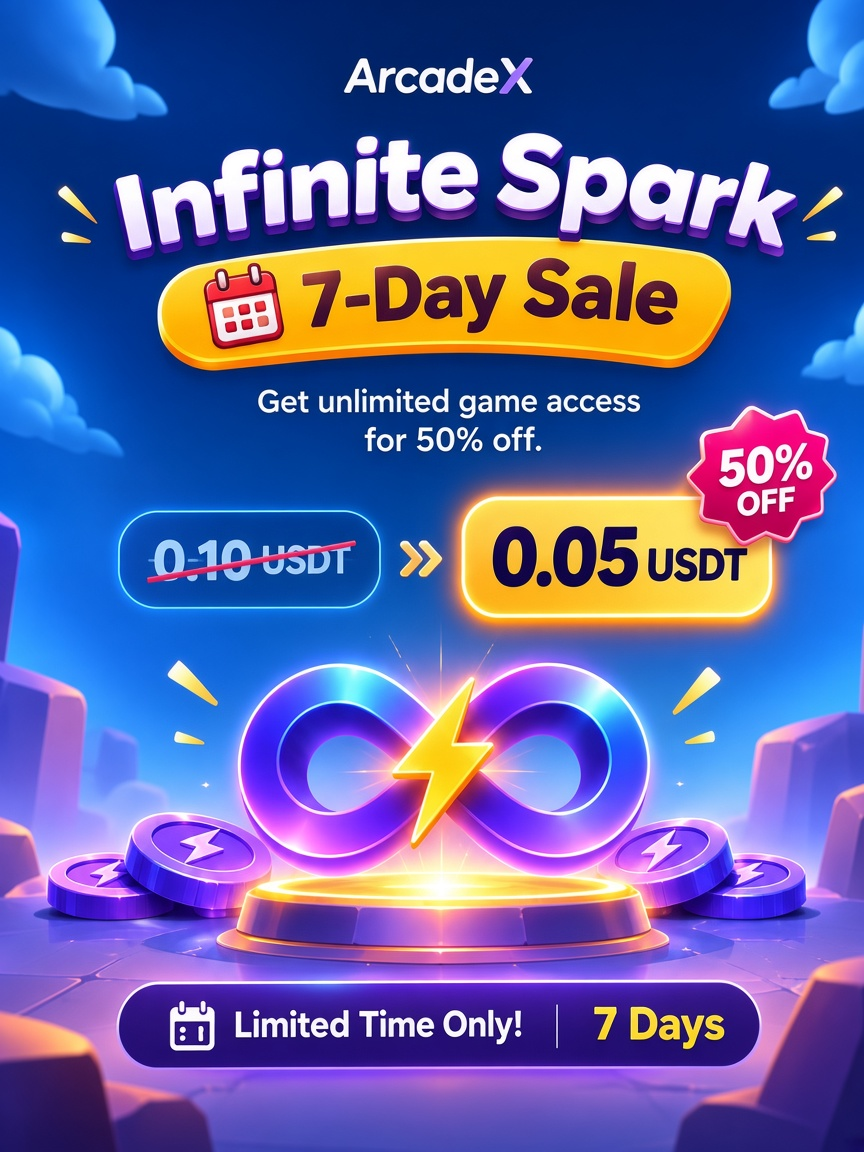
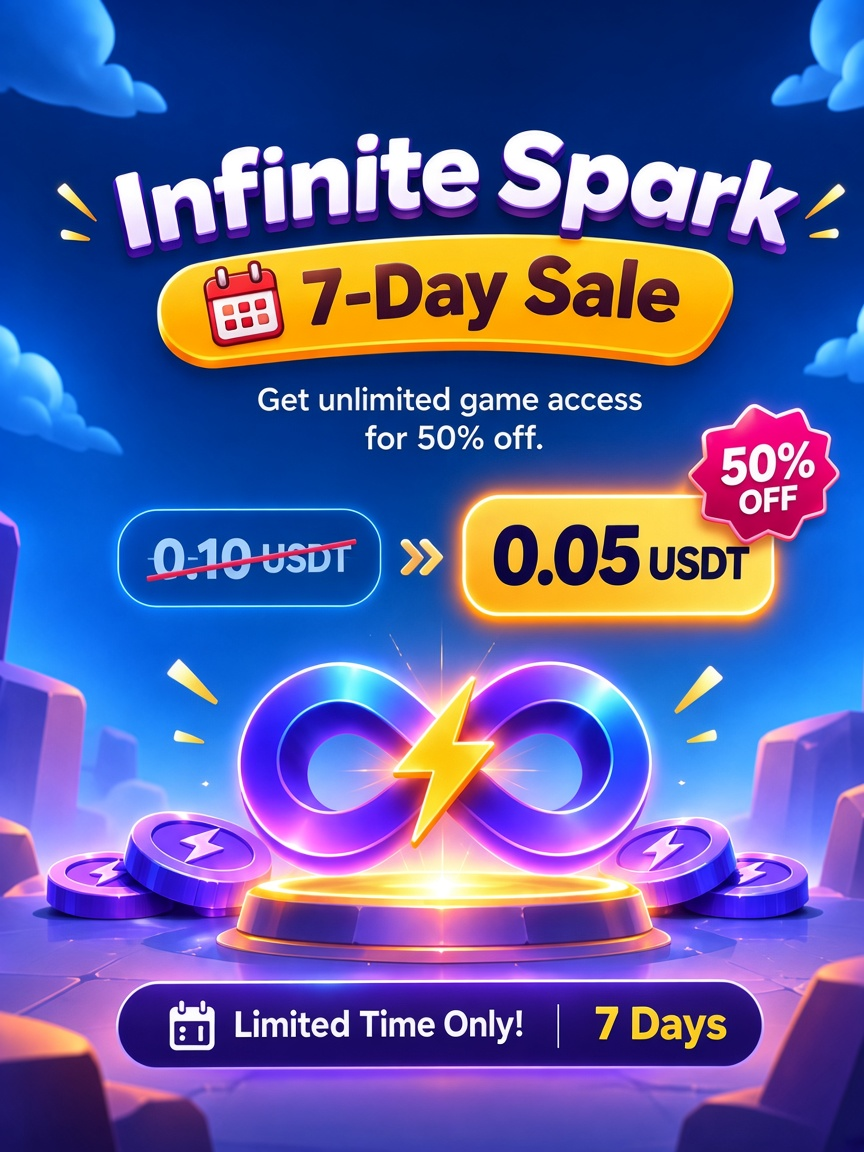
changes

diff --git a/components/SparkBatteryBar.tsx b/components/SparkBatteryBar.tsx
@@ -245,6 +245,72 @@ export default function SparkBatteryBar() {
             <span aria-hidden>✦</span>
           </h3>
 
+          <div
+            className={`spark-shop-card spark-shop-card--infinite${
+              saleLive ? " spark-shop-card--sale" : ""
+            }`}
+          >
+            {saleLive ? (
+              <span className="spark-shop-card__burst" aria-label="50% off">
+                50% OFF
+              </span>
+            ) : null}
+            <div className="spark-shop-card__main">
+              <span className="spark-shop-card__icon spark-shop-card__icon--infinite" aria-hidden>
+                ∞
+              </span>
+              <div className="spark-shop-card__copy">
+                <p className="spark-shop-card__name">Infinite Spark (24h)</p>
+                <p className="spark-shop-card__desc">
+                  {saleLive
+                    ? "Unlimited game access — half off for 7 days."
+                    : "Unlimited game access for 24 hours."}
+                </p>
+                {saleLive ? (
+                  <p className="spark-shop-card__sale-line">7-day sale</p>
+                ) : null}
+              </div>
+              <div className="spark-shop-card__price-wrap">
+                {saleLive ? (
+                  <span className="spark-shop-card__was">
+                    ${formatInfiniteSparkUsdt(INFINITE_SPARK_NORMAL_USDT)}
+                  </span>
+                ) : null}
+                <button
+                  type="button"
+                  className="spark-shop-card__price"
+                  disabled={purchasing || loading || !walletAddress}
+                  onClick={() => {
+                    playTouchSfx();
+                    void handlePurchaseInfiniteSpark();
+                  }}
+                >
+                  {purchasing
+                    ? "…"
+                    : `$${formatInfiniteSparkUsdt(
+                        saleLive
+                          ? INFINITE_SPARK_SALE_USDT
+                          : INFINITE_SPARK_NORMAL_USDT
+                      )}`}
+                </button>
+              </div>
+            </div>
+            <span
+              className={`spark-shop-card__tag${
+                saleLive
+                  ? " spark-shop-card__tag--sale"
+                  : " spark-shop-card__tag--purple"
+              }`}
+            >
+              {saleLive ? "Best deal right now" : "Play without limits"}
+            </span>
+            {purchaseError && (
+              <p className="spark-panel__purchase-error" role="alert">
+                {purchaseError}
+              </p>
+            )}
+          </div>
+
           <div className="spark-shop-card">
             <div className="spark-shop-card__main">
               <span className="spark-shop-card__icon spark-shop-card__icon--refill" aria-hidden>
@@ -274,65 +340,6 @@ export default function SparkBatteryBar() {
             {refillError && (
               <p className="spark-panel__purchase-error" role="alert">
                 {refillError}
-              </p>
-            )}
-          </div>
-
-          <div
-            className={`spark-shop-card spark-shop-card--infinite${
-              saleLive ? " spark-shop-card--sale" : ""
-            }`}
-          >
-            <div className="spark-shop-card__main">
-              <span className="spark-shop-card__icon spark-shop-card__icon--infinite" aria-hidden>
-                ∞
-              </span>
-              <div className="spark-shop-card__copy">
-                <p className="spark-shop-card__name">Infinite Spark (24h)</p>
-                <p className="spark-shop-card__desc">
-                  Unlimited game access for 24 hours.
-                </p>
-                {saleLive ? (
-                  <p className="spark-shop-card__sale-line">7-day sale</p>
-                ) : null}
-              </div>
-              <div className="spark-shop-card__price-wrap">
-                {saleLive ? (
-                  <span className="spark-shop-card__was" aria-hidden>
-                    ${formatInfiniteSparkUsdt(INFINITE_SPARK_NORMAL_USDT)}
-                  </span>
-                ) : null}
-                <button
-                  type="button"
-                  className="spark-shop-card__price"
-                  disabled={purchasing || loading || !walletAddress}
-                  onClick={() => {
-                    playTouchSfx();
-                    void handlePurchaseInfiniteSpark();
-                  }}
-                >
-                  {purchasing
-                    ? "…"
-                    : `$${formatInfiniteSparkUsdt(
-                        saleLive
-                          ? INFINITE_SPARK_SALE_USDT
-                          : INFINITE_SPARK_NORMAL_USDT
-                      )}`}
-                </button>
-              </div>
-            </div>
-            {saleLive ? (
-              <span className="spark-shop-card__tag spark-shop-card__tag--sale">
-                50% OFF
-              </span>
-            ) : (
-              <span className="spark-shop-card__tag spark-shop-card__tag--purple">
-                Play without limits
-              </span>
-            )}
-            {purchaseError && (
-              <p className="spark-panel__purchase-error" role="alert">
-                {purchaseError}
               </p>
             )}
           </div>

diff --git a/app/globals.css b/app/globals.css
@@ -2046,7 +2046,61 @@ a { color: inherit; text-decoration: none; }
 }
 
 .spark-shop-card--sale {
-  border-color: rgba(168, 85, 247, 0.7);
+  overflow: visible;
+  border-color: rgba(168, 85, 247, 0.75);
+  background: linear-gradient(145deg, #faf5ff 0%, #f3e8ff 48%, #ede9fe 100%);
+  box-shadow:
+    0 10px 24px rgba(124, 58, 237, 0.18),
+    inset 0 1px 0 rgba(255, 255, 255, 0.95);
+}
+
+.spark-shop-card__burst {
+  position: absolute;
+  top: -10px;
+  right: -8px;
+  z-index: 2;
+  display: flex;
+  align-items: center;
+  justify-content: center;
+  width: 58px;
+  height: 58px;
+  padding: 6px;
+  border-radius: 50%;
+  background:
+    radial-gradient(circle at 35% 30%, #fda4af 0%, #fb7185 42%, #e11d48 100%);
+  color: #fff;
+  font-size: 10px;
+  font-weight: 900;
+  line-height: 1.05;
+  text-align: center;
+  letter-spacing: 0.02em;
+  text-transform: uppercase;
+  box-shadow:
+    0 6px 14px rgba(225, 29, 72, 0.35),
+    inset 0 1px 0 rgba(255, 255, 255, 0.45);
+  clip-path: polygon(
+    50% 0%,
+    63% 12%,
+    79% 8%,
+    82% 24%,
+    97% 32%,
+    88% 46%,
+    98% 62%,
+    82% 68%,
+    79% 84%,
+    63% 78%,
+    50% 92%,
+    37% 78%,
+    21% 84%,
+    18% 68%,
+    2% 62%,
+    12% 46%,
+    3% 32%,
+    18% 24%,
+    21% 8%,
+    37% 12%
+  );
+  transform: rotate(8deg);
 }
 
 .spark-shop-card__sale-line {
@@ -2072,14 +2126,39 @@ a { color: inherit; text-decoration: none; }
 }
 
 .spark-shop-card__tag--sale {
-  background: #ede9fe;
-  border: 1px solid rgba(168, 85, 247, 0.45);
-  color: #6d28d9;
+  background: #fce7f3;
+  border: 1px solid rgba(244, 114, 182, 0.45);
+  color: #be185d;
+}
+
+.infinite-spark-sale-modal.earn-now-modal--image {
+  background: transparent;
+  box-shadow: none;
+  overflow: visible;
+}
+
+.infinite-spark-sale-modal .earn-now-modal__art {
+  border-radius: 20px;
+  background: transparent;
+  max-height: min(68vh, 500px);
 }
 
 .infinite-spark-sale-modal__cta {
-  background: linear-gradient(135deg, #a855f7 0%, #7c3aed 55%, #6d28d9 100%);
-  box-shadow: 0 4px 14px rgba(124, 58, 237, 0.35);
+  margin-top: 10px;
+  background: linear-gradient(
+    180deg,
+    rgba(255, 255, 255, 0.42) 0%,
+    rgba(168, 85, 247, 0.55) 42%,
+    rgba(109, 40, 217, 0.72) 100%
+  );
+  border: 1px solid rgba(255, 255, 255, 0.55);
+  box-shadow:
+    0 8px 22px rgba(91, 33, 182, 0.28),
+    inset 0 1px 0 rgba(255, 255, 255, 0.65),
+    inset 0 -1px 0 rgba(76, 29, 149, 0.2);
+  backdrop-filter: blur(14px);
+  -webkit-backdrop-filter: blur(14px);
+  text-shadow: 0 1px 2px rgba(76, 29, 149, 0.35);
 }
 
 .spark-panel__shop-note {
@@ -14534,7 +14613,61 @@ a { color: inherit; text-decoration: none; }
 }
 
 .spark-shop-card--sale {
-  border-color: rgba(168, 85, 247, 0.7);
+  overflow: visible;
+  border-color: rgba(168, 85, 247, 0.75);
+  background: linear-gradient(145deg, #faf5ff 0%, #f3e8ff 48%, #ede9fe 100%);
+  box-shadow:
+    0 10px 24px rgba(124, 58, 237, 0.18),
+    inset 0 1px 0 rgba(255, 255, 255, 0.95);
+}
+
+.spark-shop-card__burst {
+  position: absolute;
+  top: -10px;
+  right: -8px;
+  z-index: 2;
+  display: flex;
+  align-items: center;
+  justify-content: center;
+  width: 58px;
+  height: 58px;
+  padding: 6px;
+  border-radius: 50%;
+  background:
+    radial-gradient(circle at 35% 30%, #fda4af 0%, #fb7185 42%, #e11d48 100%);
+  color: #fff;
+  font-size: 10px;
+  font-weight: 900;
+  line-height: 1.05;
+  text-align: center;
+  letter-spacing: 0.02em;
+  text-transform: uppercase;
+  box-shadow:
+    0 6px 14px rgba(225, 29, 72, 0.35),
+    inset 0 1px 0 rgba(255, 255, 255, 0.45);
+  clip-path: polygon(
+    50% 0%,
+    63% 12%,
+    79% 8%,
+    82% 24%,
+    97% 32%,
+    88% 46%,
+    98% 62%,
+    82% 68%,
+    79% 84%,
+    63% 78%,
+    50% 92%,
+    37% 78%,
+    21% 84%,
+    18% 68%,
+    2% 62%,
+    12% 46%,
+    3% 32%,
+    18% 24%,
+    21% 8%,
+    37% 12%
+  );
+  transform: rotate(8deg);
 }
 
 .spark-shop-card__sale-line {
@@ -14560,14 +14693,39 @@ a { color: inherit; text-decoration: none; }
 }
 
 .spark-shop-card__tag--sale {
-  background: #ede9fe;
-  border: 1px solid rgba(168, 85, 247, 0.45);
-  color: #6d28d9;
+  background: #fce7f3;
+  border: 1px solid rgba(244, 114, 182, 0.45);
+  color: #be185d;
+}
+
+.infinite-spark-sale-modal.earn-now-modal--image {
+  background: transparent;
+  box-shadow: none;
+  overflow: visible;
+}
+
+.infinite-spark-sale-modal .earn-now-modal__art {
+  border-radius: 20px;
+  background: transparent;
+  max-height: min(68vh, 500px);
 }
 
 .infinite-spark-sale-modal__cta {
-  background: linear-gradient(135deg, #a855f7 0%, #7c3aed 55%, #6d28d9 100%);
-  box-shadow: 0 4px 14px rgba(124, 58, 237, 0.35);
+  margin-top: 10px;
+  background: linear-gradient(
+    180deg,
+    rgba(255, 255, 255, 0.42) 0%,
+    rgba(168, 85, 247, 0.55) 42%,
+    rgba(109, 40, 217, 0.72) 100%
+  );
+  border: 1px solid rgba(255, 255, 255, 0.55);
+  box-shadow:
+    0 8px 22px rgba(91, 33, 182, 0.28),
+    inset 0 1px 0 rgba(255, 255, 255, 0.65),
+    inset 0 -1px 0 rgba(76, 29, 149, 0.2);
+  backdrop-filter: blur(14px);
+  -webkit-backdrop-filter: blur(14px);
+  text-shadow: 0 1px 2px rgba(76, 29, 149, 0.35);
 }
 
 .spark-panel__shop-note {

diff --git a/lib/infinite-spark-sale.ts b/lib/infinite-spark-sale.ts
@@ -9,9 +9,9 @@ export const INFINITE_SPARK_SALE_END_MS =
 export const INFINITE_SPARK_NORMAL_USDT = 0.1;
 export const INFINITE_SPARK_SALE_USDT = 0.05;
 
-export const INFINITE_SPARK_SALE_POSTER = "/infinite-spark-sale.jpg";
+export const INFINITE_SPARK_SALE_POSTER = "/infinite-spark-sale.jpg?v=3";
 /** Bump when show logic changes so a prior auto-dismiss doesn't suppress the poster. */
-export const INFINITE_SPARK_SALE_PROMO_ID = "infiniteSparkSale:2026-11-14:v2";
+export const INFINITE_SPARK_SALE_PROMO_ID = "infiniteSparkSale:2026-11-14:v3";
 
 export function isInfiniteSparkSaleLive(now = Date.now()): boolean {
   return now >= INFINITE_SPARK_SALE_START_MS && now < INFINITE_SPARK_SALE_END_MS;
